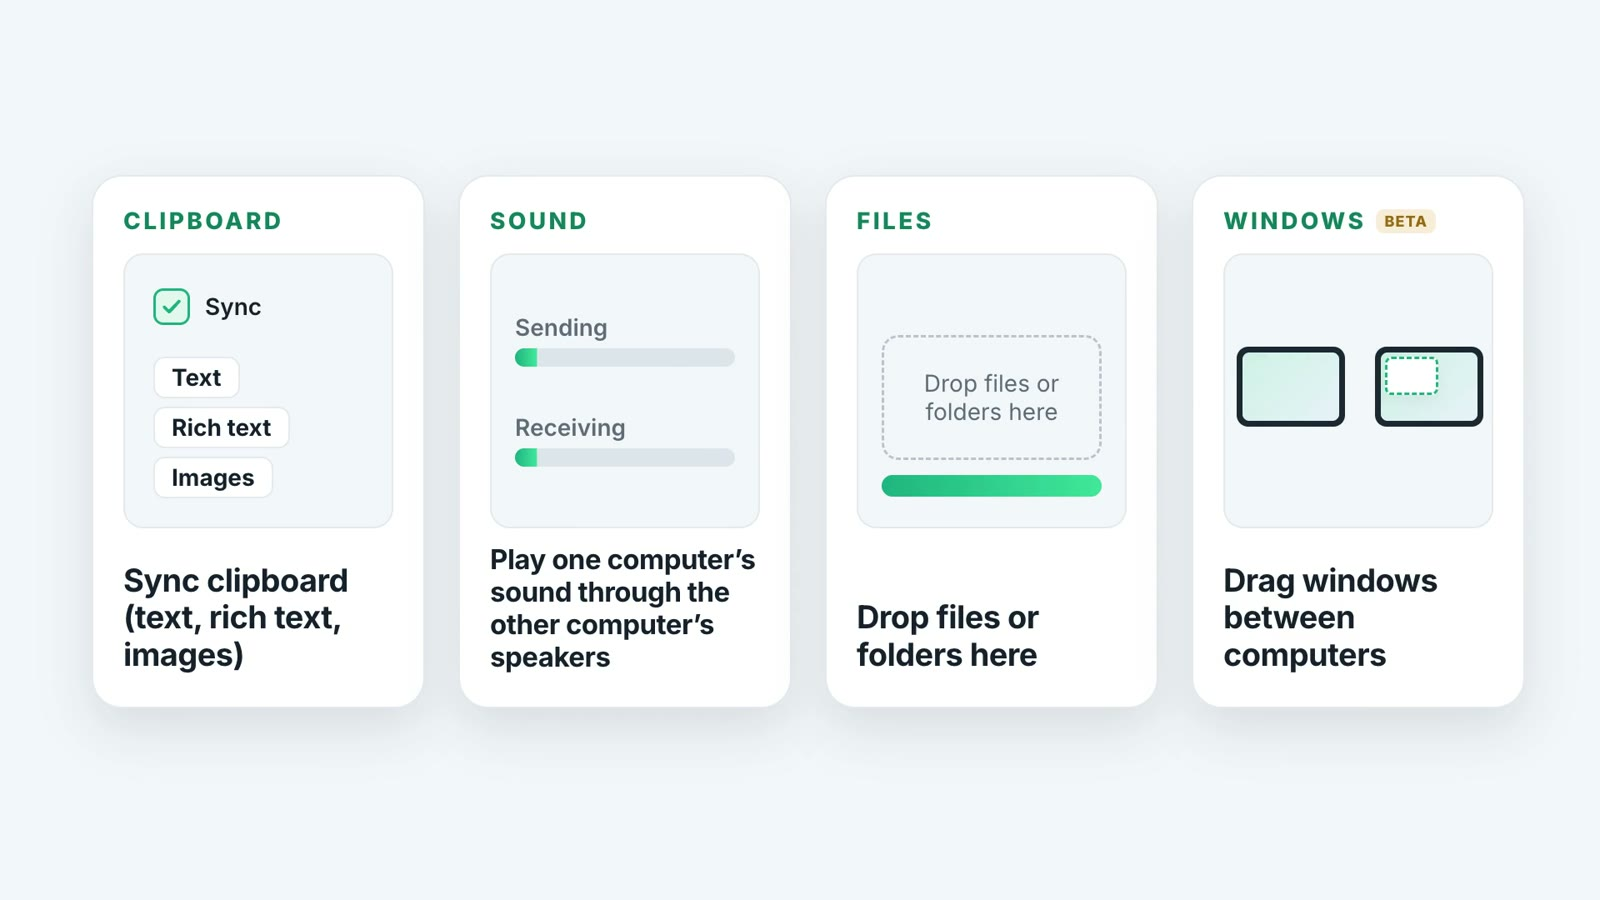
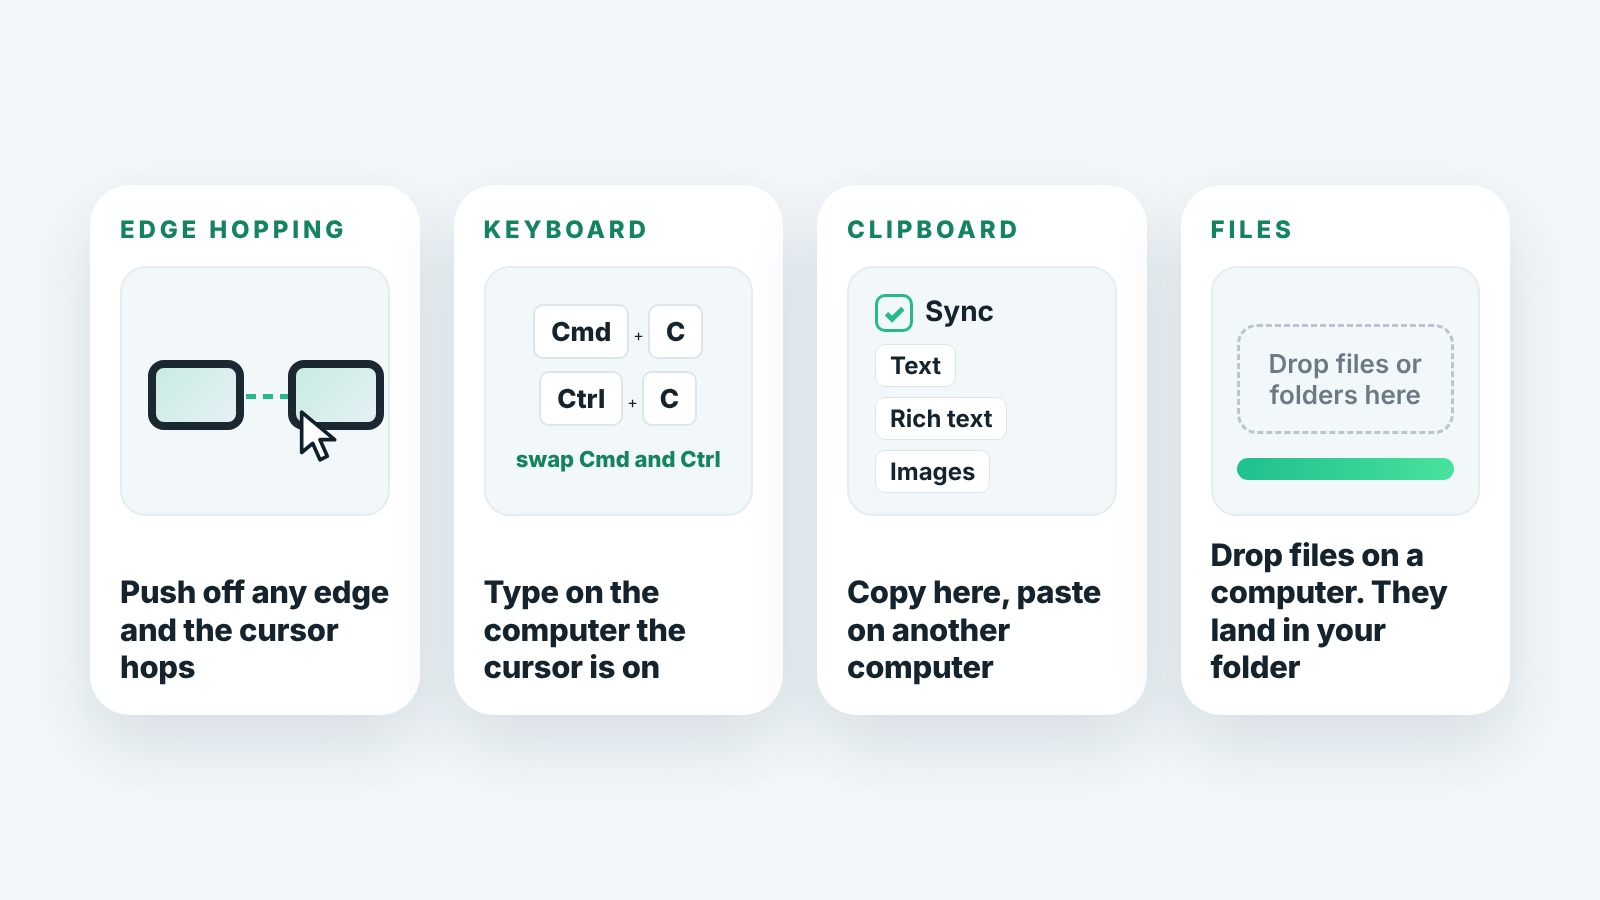
Add release graphics and release notes

diff --git a/docs/release-notes-v1.0.0.md b/docs/release-notes-v1.0.0.md
@@ -1,0 +1,43 @@
+<p align="center">
+  <img src="https://raw.githubusercontent.com/sxhugo-cell/ScreenHopper/main/docs/media/release-banner.jpg" alt="Screen Hopper 1.0.0" width="100%">
+</p>
+
+<h3 align="center">One mouse. Four computers.</h3>
+<p align="center">Push your cursor off the edge of a screen and it hops to the next computer.<br>Keyboard, clipboard and files come along. All on your own network.</p>
+
+---
+
+## ⬇ Download
+
+| | Platform | File | Notes |
+|:-:|---|---|---|
+| 🍎 | **macOS** | `ScreenHopper-Mac.dmg` | Universal: Intel and Apple Silicon |
+| 🪟 | **Windows** | `ScreenHopper-Windows-Setup.exe` | 64-bit installer. Unsigned, so SmartScreen may warn |
+| 🐧 | **Linux** | `ScreenHopper-Linux.deb` | x86_64, Wayland (GNOME 46+, KDE Plasma 6.1+). See [LINUX.md](https://github.com/sxhugo-cell/ScreenHopper/blob/main/LINUX.md) |
+| 🤖 | **Android** | `ScreenHopper-Android.apk` | Receive side. See [ANDROID.md](https://github.com/sxhugo-cell/ScreenHopper/blob/main/ANDROID.md) |
+
+## ✨ What you get
+
+<p align="center">
+  <img src="https://raw.githubusercontent.com/sxhugo-cell/ScreenHopper/main/docs/media/features.jpg" alt="Edge hopping, keyboard, clipboard and files" width="100%">
+</p>
+
+- 🖱 **Edge hopping:** arrange your screens to match your desk and push off any shared edge. It even hops between two other computers.
+- ⌨ **Keyboard follows:** type on whichever computer the cursor is on. Cmd and Ctrl can be swapped between Mac and Windows.
+- 📋 **Shared clipboard:** text, rich text and images. Copied files travel too.
+- 📁 **File transfer:** drop files or folders onto a computer. They land in a folder you choose.
+- 🌗 **Dim and pause:** dim the screen that is not in control, or hit <kbd>Ctrl</kbd> <kbd>Alt</kbd> <kbd>Shift</kbd> <kbd>Esc</kbd> to take the cursor back.
+- 🔒 **Private by design:** encrypted end to end (Noise, ChaCha20). No account, no cloud, no server.
+
+## 🚀 Set up in four steps
+
+1. Install Screen Hopper on each computer.
+2. Enter the **same pairing key** on all of them. They find each other on your network.
+3. Drag the screens in **Layout** to match your desk.
+4. Push the cursor off the edge.
+
+<p align="center">
+  <img src="https://raw.githubusercontent.com/sxhugo-cell/ScreenHopper/main/docs/media/computers.jpg" alt="The Computers tab with the pairing key" width="90%">
+</p>
+
+> **Honest status:** macOS is the most tested. The Windows, Linux and Android builds are newer and have seen less real-world use, so expect rough edges and please report them.
